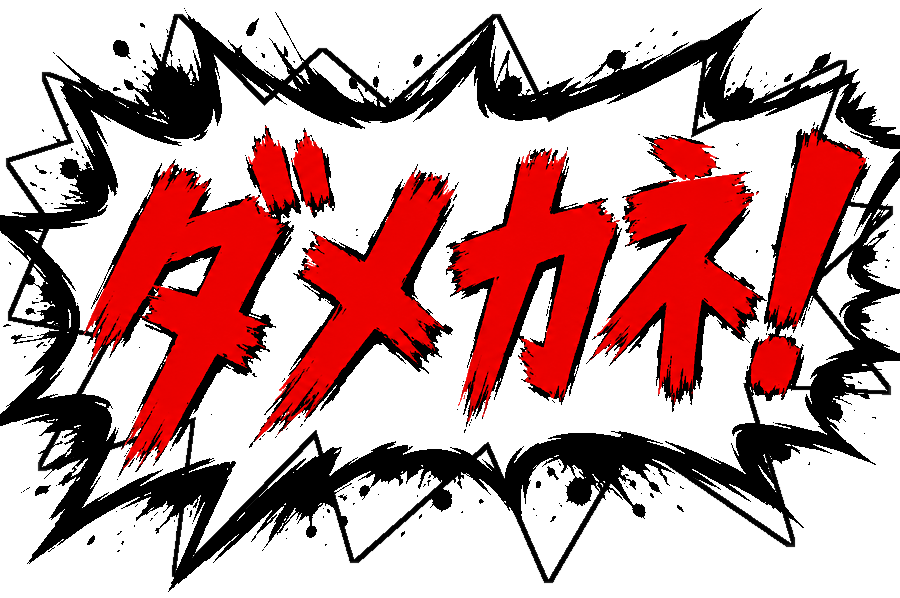
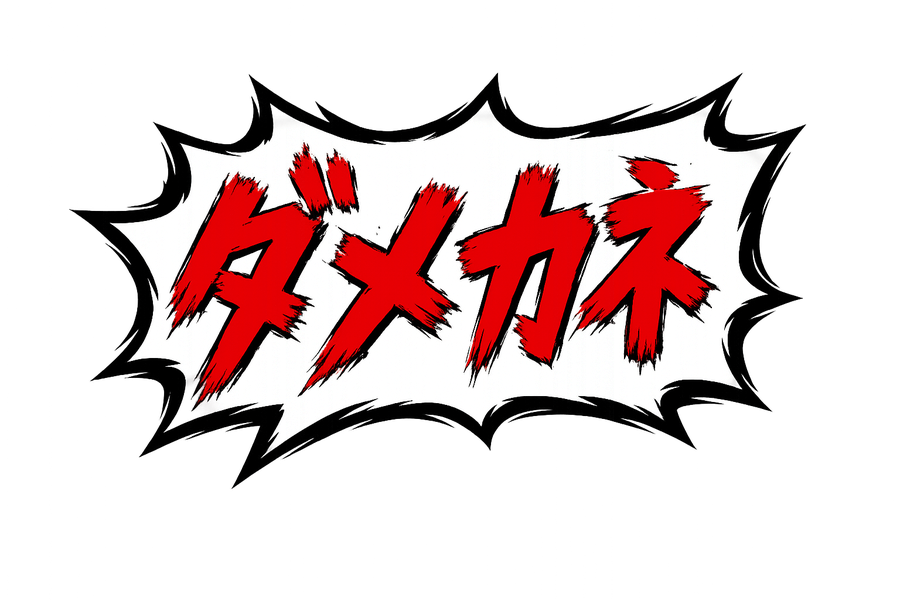
Add files via upload

diff --git a/outputs/index.html b/outputs/index.html
@@ -498,7 +498,7 @@
     const goalShopImage = new Image();
     goalShopImage.src = "goal-shop.png";
     const damekaneAttackImage = new Image();
-    damekaneAttackImage.src = "damekane-attack-bubble.png";
+    damekaneAttackImage.src = "damekane-attack-bubble.png?v=20260609-0153";
 
     const keys = { left: false, right: false, jump: false };
     let audioCtx = null;
@@ -536,6 +536,7 @@
       hurtTimer: 0,
       stunTimer: 0,
       crouchTimer: 0,
+      diveTimer: 0,
       anim: 0
     };
 
@@ -870,6 +871,11 @@
       if (player.grounded) {
         player.crouchTimer = 0.65;
         burst(player.x + player.w / 2, player.y + player.h, "#d8c18e", 6);
+      } else if (player.stunTimer <= 0) {
+        player.crouchTimer = 0.55;
+        player.diveTimer = 0.55;
+        player.vy = Math.max(player.vy, 1450);
+        burst(player.x + player.w / 2, player.y + player.h, "#ffffff", 8);
       }
     }
 
@@ -894,6 +900,7 @@
         hurtTimer: 0,
         stunTimer: 0,
         crouchTimer: 0,
+        diveTimer: 0,
         anim: 0
       });
       layoutGame();
@@ -957,6 +964,7 @@
       player.hurtTimer = 0;
       player.stunTimer = 0;
       player.crouchTimer = 0;
+      player.diveTimer = 0;
       blocks.forEach((block) => {
         block.used = false;
         block.broken = false;
@@ -1126,6 +1134,7 @@
       player.hurtTimer = Math.max(0, player.hurtTimer - dt);
       player.stunTimer = Math.max(0, player.stunTimer - dt);
       player.crouchTimer = Math.max(0, player.crouchTimer - dt);
+      player.diveTimer = Math.max(0, player.diveTimer - dt);
       player.anim += dt;
 
       const targetSpeed = player.stunTimer > 0 ? 0 : (world.stage === 2 ? world.autoRunSpeed + 35 : world.autoRunSpeed);
@@ -1141,8 +1150,10 @@
       player.y = Math.min(player.y + player.vy * dt, groundY() - player.h);
       player.x = Math.max(0, Math.min(stageWidth() - player.w, player.x));
       keepPlayerOnGround();
+      if (player.grounded) player.diveTimer = 0;
       standOnPlatforms(player, dt);
       keepPlayerOnGround();
+      if (player.grounded) player.diveTimer = 0;
 
       if (attack.active) {
         attack.timer -= dt;
@@ -1184,13 +1195,18 @@
           continue;
         }
         if (rectsOverlap(player, enemy)) {
-          if (player.vy > 120 && player.y + player.h - enemy.y < 32) {
+          const playerBottom = player.y + player.h;
+          const stompFromAbove = player.vy > 120 && playerBottom - enemy.y < 42;
+          const divingStomp = player.diveTimer > 0 && player.vy > 300 && playerBottom <= enemy.y + enemy.h * 0.82;
+          if (stompFromAbove || divingStomp) {
             const stompX = enemy.x;
             const stompY = enemy.y;
             enemy.x = world.width + 9999;
-            player.vy = -620;
+            player.vy = divingStomp ? -360 : -620;
+            player.diveTimer = 0;
+            player.crouchTimer = Math.max(player.crouchTimer, 0.18);
             playStompSound();
-            burst(stompX, stompY, "#ffd438", 12);
+            burst(stompX, stompY, divingStomp ? "#ffffff" : "#ffd438", divingStomp ? 18 : 12);
           } else {
             hurt();
           }
@@ -1701,7 +1717,7 @@
         col = Math.abs(Math.floor(player.anim * 4)) % 8;
       }
 
-      const isCrouching = player.crouchTimer > 0 && player.grounded;
+      const isCrouching = player.crouchTimer > 0 && (player.grounded || player.diveTimer > 0);
       const drawW = player.w + (isCrouching ? 38 : 30);
       const drawH = isCrouching ? Math.round((player.h + 20) * 0.68) : player.h + 20;
       const dx = Math.round(player.x - world.camera - 15);

diff --git a/outputs/kitasenju-side-scroller.html b/outputs/kitasenju-side-scroller.html
@@ -498,7 +498,7 @@
     const goalShopImage = new Image();
     goalShopImage.src = "goal-shop.png";
     const damekaneAttackImage = new Image();
-    damekaneAttackImage.src = "damekane-attack-bubble.png";
+    damekaneAttackImage.src = "damekane-attack-bubble.png?v=20260609-0153";
 
     const keys = { left: false, right: false, jump: false };
     let audioCtx = null;
@@ -536,6 +536,7 @@
       hurtTimer: 0,
       stunTimer: 0,
       crouchTimer: 0,
+      diveTimer: 0,
       anim: 0
     };
 
@@ -870,6 +871,11 @@
       if (player.grounded) {
         player.crouchTimer = 0.65;
         burst(player.x + player.w / 2, player.y + player.h, "#d8c18e", 6);
+      } else if (player.stunTimer <= 0) {
+        player.crouchTimer = 0.55;
+        player.diveTimer = 0.55;
+        player.vy = Math.max(player.vy, 1450);
+        burst(player.x + player.w / 2, player.y + player.h, "#ffffff", 8);
       }
     }
 
@@ -894,6 +900,7 @@
         hurtTimer: 0,
         stunTimer: 0,
         crouchTimer: 0,
+        diveTimer: 0,
         anim: 0
       });
       layoutGame();
@@ -957,6 +964,7 @@
       player.hurtTimer = 0;
       player.stunTimer = 0;
       player.crouchTimer = 0;
+      player.diveTimer = 0;
       blocks.forEach((block) => {
         block.used = false;
         block.broken = false;
@@ -1126,6 +1134,7 @@
       player.hurtTimer = Math.max(0, player.hurtTimer - dt);
       player.stunTimer = Math.max(0, player.stunTimer - dt);
       player.crouchTimer = Math.max(0, player.crouchTimer - dt);
+      player.diveTimer = Math.max(0, player.diveTimer - dt);
       player.anim += dt;
 
       const targetSpeed = player.stunTimer > 0 ? 0 : (world.stage === 2 ? world.autoRunSpeed + 35 : world.autoRunSpeed);
@@ -1141,8 +1150,10 @@
       player.y = Math.min(player.y + player.vy * dt, groundY() - player.h);
       player.x = Math.max(0, Math.min(stageWidth() - player.w, player.x));
       keepPlayerOnGround();
+      if (player.grounded) player.diveTimer = 0;
       standOnPlatforms(player, dt);
       keepPlayerOnGround();
+      if (player.grounded) player.diveTimer = 0;
 
       if (attack.active) {
         attack.timer -= dt;
@@ -1184,13 +1195,18 @@
           continue;
         }
         if (rectsOverlap(player, enemy)) {
-          if (player.vy > 120 && player.y + player.h - enemy.y < 32) {
+          const playerBottom = player.y + player.h;
+          const stompFromAbove = player.vy > 120 && playerBottom - enemy.y < 42;
+          const divingStomp = player.diveTimer > 0 && player.vy > 300 && playerBottom <= enemy.y + enemy.h * 0.82;
+          if (stompFromAbove || divingStomp) {
             const stompX = enemy.x;
             const stompY = enemy.y;
             enemy.x = world.width + 9999;
-            player.vy = -620;
+            player.vy = divingStomp ? -360 : -620;
+            player.diveTimer = 0;
+            player.crouchTimer = Math.max(player.crouchTimer, 0.18);
             playStompSound();
-            burst(stompX, stompY, "#ffd438", 12);
+            burst(stompX, stompY, divingStomp ? "#ffffff" : "#ffd438", divingStomp ? 18 : 12);
           } else {
             hurt();
           }
@@ -1701,7 +1717,7 @@
         col = Math.abs(Math.floor(player.anim * 4)) % 8;
       }
 
-      const isCrouching = player.crouchTimer > 0 && player.grounded;
+      const isCrouching = player.crouchTimer > 0 && (player.grounded || player.diveTimer > 0);
       const drawW = player.w + (isCrouching ? 38 : 30);
       const drawH = isCrouching ? Math.round((player.h + 20) * 0.68) : player.h + 20;
       const dx = Math.round(player.x - world.camera - 15);